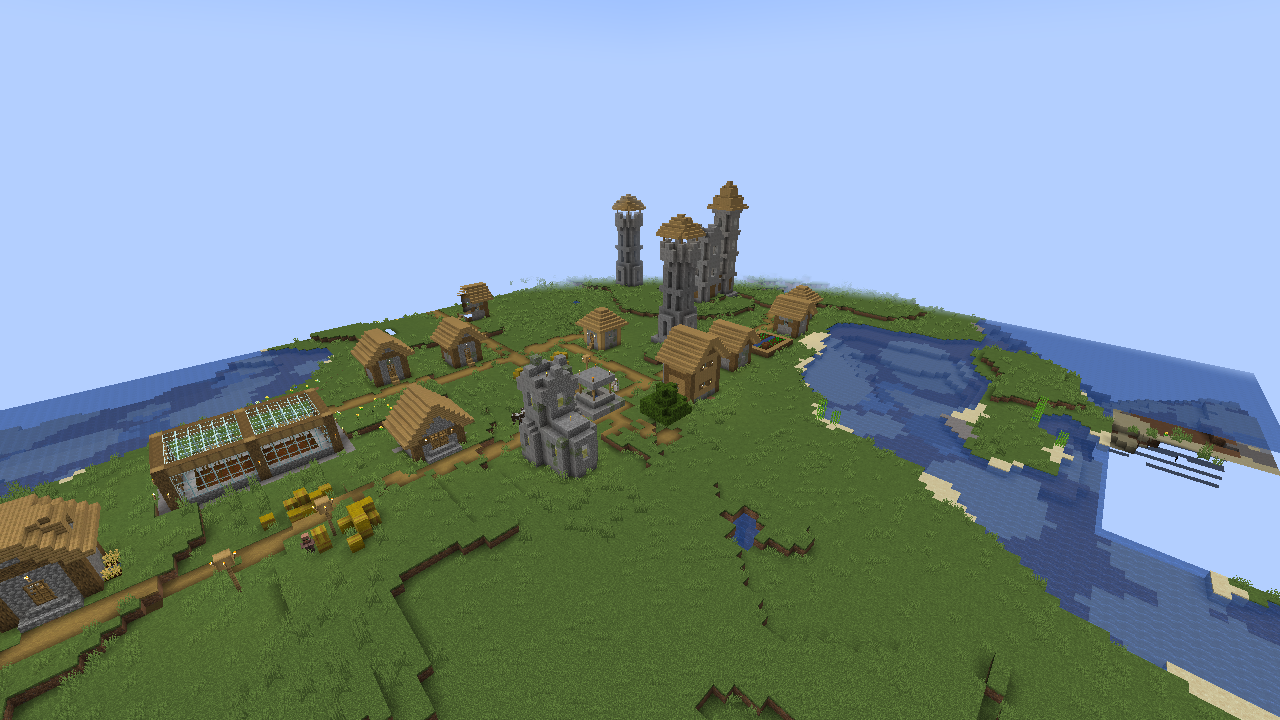
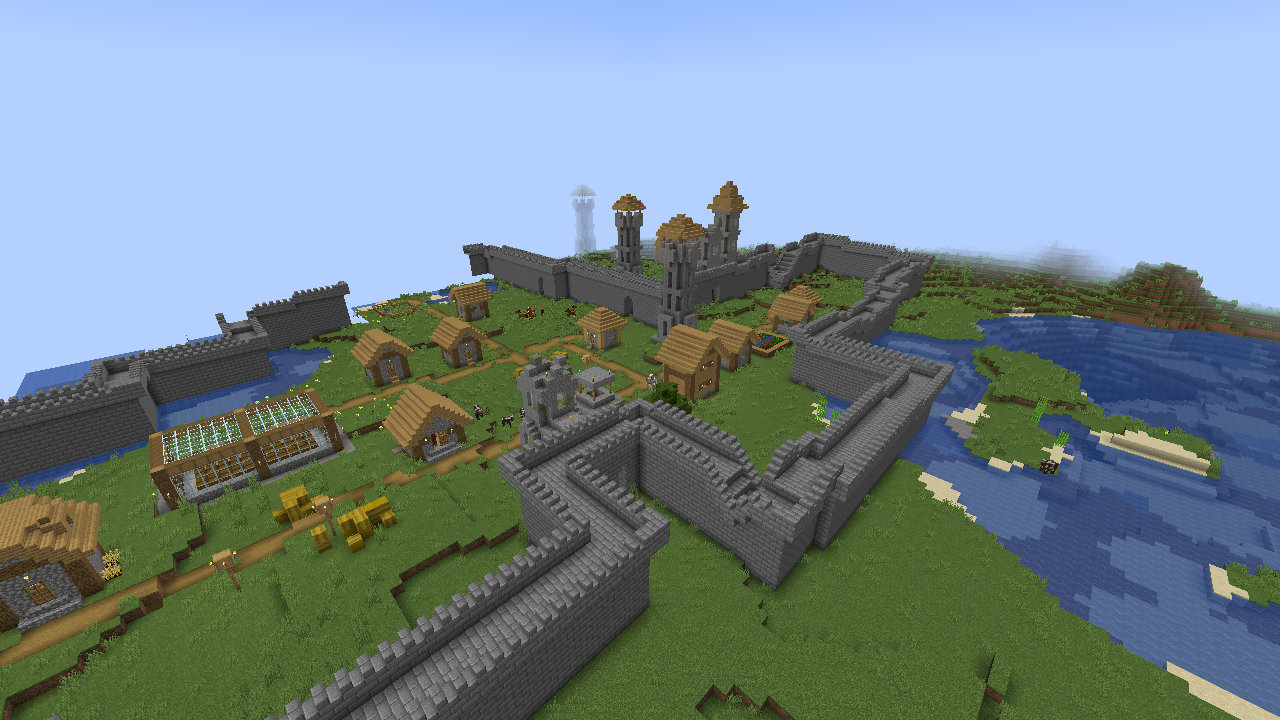
Witchery village walls: legacy tile entities created during generation, street pieces as village paths; Start.biome; README village image

diff --git a/src/main/java/org/kylepitcock/legacyconnector/v1_7_10/entity/VillageSelfTest.java b/src/main/java/org/kylepitcock/legacyconnector/v1_7_10/entity/VillageSelfTest.java
@@ -41,10 +41,41 @@ public final class VillageSelfTest {
                 for (int y = level.getMinBuildHeight(); y < 140; y++) {
                     var key = BuiltInRegistries.BLOCK.getKey(level.getBlockState(pos.set(x, y, z)).getBlock());
                     if (!key.getNamespace().equals("minecraft")) blocks.merge(key.getNamespace(), 1, Integer::sum);
+                    if (key.getPath().contains("wall")) blocks.merge(key.toString(), 1, Integer::sum);
+                    if (key.getPath().equals("wallgen")) {
+                        var be = level.getBlockEntity(pos);
+                        Object legacyTe = be instanceof org.kylepitcock.legacyconnector.v1_7_10.adapter.LegacyBlockEntity l ? l.legacy() : null;
+                        String info = "no legacy tile entity";
+                        if (legacyTe != null) {
+                            try {
+                                var f = legacyTe.getClass().getDeclaredField("bb");
+                                f.setAccessible(true);
+                                var ticksField = legacyTe.getClass().getSuperclass().getDeclaredField("ticks");
+                                ticksField.setAccessible(true);
+                                info = "bb " + f.get(legacyTe) + " ticks " + ticksField.get(legacyTe) + " canUpdate " + ((legacyconnector.v1_7_10.net.minecraft.tileentity.TileEntity) legacyTe).canUpdate();
+                            } catch (ReflectiveOperationException ex) {
+                                info = ex.toString();
+                            }
+                        }
+                        log.info("VILLAGE TEST: wall generator at {} {} {}: {}", x, y, z, info);
+                    }
                 }
             }
         }
         for (var entity : level.getAllEntities()) if (entity instanceof net.minecraft.world.entity.npc.Villager) villagers++;
         log.info("VILLAGE TEST: village near {} {}; blocks of mods in the 9x9 chunks around it: {}; villagers loaded: {}", found.getX(), found.getZ(), blocks, villagers);
+        final int[] ticks = {0};
+        final int fcx = cx, fcz = cz;
+        NeoForge.EVENT_BUS.addListener((net.neoforged.neoforge.event.tick.ServerTickEvent.Post e) -> {
+            if (++ticks[0] != 600) return;
+            int stone = 0, wallgen = 0;
+            BlockPos.MutableBlockPos p = new BlockPos.MutableBlockPos();
+            for (int x = (fcx - 5) << 4; x < (fcx + 6) << 4; x++) for (int z = (fcz - 5) << 4; z < (fcz + 6) << 4; z++) for (int y = 60; y < 110; y++) {
+                var key = BuiltInRegistries.BLOCK.getKey(level.getBlockState(p.set(x, y, z)).getBlock());
+                if (key.getPath().equals("wallgen")) wallgen++;
+                if (key.getPath().endsWith("_wall") || key.getPath().equals("stone_bricks") || key.getPath().equals("cobblestone")) stone++;
+            }
+            log.info("VILLAGE TEST after 600 ticks: wall generators left {}, cobblestone/stone brick/wall blocks {}", wallgen, stone);
+        });
     }
 }

diff --git a/src/main/java/org/kylepitcock/legacyconnector/v1_7_10/bridge/LegacyVillages.java b/src/main/java/org/kylepitcock/legacyconnector/v1_7_10/bridge/LegacyVillages.java
@@ -38,7 +38,7 @@ public final class LegacyVillages {
     }
 
     /** A piece that is already there (a modern village piece): occupies space, builds nothing. */
-    private static final class Occupied extends StructureComponent {
+    private static final class Occupied extends StructureVillagePieces.Village {
         Occupied(StructureBoundingBox box) {
             this.boundingBox = box;
         }
@@ -76,7 +76,7 @@ public final class LegacyVillages {
             var key = registry.getKey(start.getStructure());
             boolean desert = key != null && key.getPath().contains("desert");
             Random rand = new Random(seed ^ (origin.x * 341873128712L + origin.z * 132897987541L));
-            List<StructureComponent> planned = plan(start, box, rand, desert, handlers);
+            List<StructureComponent> planned = plan(start, box, rand, desert, world.getBiomeGenForCoords((box.minX() + box.maxX()) / 2, (box.minZ() + box.maxZ()) / 2), handlers);
             Random buildRand = new Random(seed ^ ((long) chunkX * 3418731287L + (long) chunkZ * 1328979875L));
             for (StructureComponent component : planned) {
                 if (!component.getBoundingBox().intersectsWith(chunkBox)) continue;
@@ -89,16 +89,20 @@ public final class LegacyVillages {
         }
     }
 
-    private static List<StructureComponent> plan(StructureStart start, BoundingBox box, Random rand, boolean desert,
+    private static List<StructureComponent> plan(StructureStart start, BoundingBox box, Random rand, boolean desert, legacyconnector.v1_7_10.net.minecraft.world.biome.BiomeGenBase biome,
             List<legacyconnector.v1_7_10.cpw.mods.fml.common.registry.VillagerRegistry.IVillageCreationHandler> handlers) {
         List<Object> pieces = new ArrayList<>();
         for (var piece : start.getPieces()) {
             BoundingBox b = piece.getBoundingBox();
-            pieces.add(new Occupied(new StructureBoundingBox(b.minX(), b.minY(), b.minZ(), b.maxX(), b.maxY(), b.maxZ())));
+            StructureBoundingBox box1710 = new StructureBoundingBox(b.minX(), b.minY(), b.minZ(), b.maxX(), b.maxY(), b.maxZ());
+            // The village paths are what legacy components follow (Witchery's walls run along them).
+            boolean street = piece instanceof net.minecraft.world.level.levelgen.structure.PoolElementStructurePiece pool && pool.getElement().toString().contains("street");
+            pieces.add(street ? new StructureVillagePieces.Path(null, 0, rand, box1710, 0) : new Occupied(box1710));
         }
         int existing = pieces.size();
         StructureVillagePieces.Start startPiece = new StructureVillagePieces.Start(null, 0, rand, box.minX(), box.minZ(), new ArrayList(), 0);
         startPiece.inDesert = desert;
+        startPiece.biome = biome;
         for (var handler : handlers) {
             try {
                 StructureVillagePieces.PieceWeight weight = handler.getVillagePieceWeight(rand, 0);

diff --git a/src/main/java/org/kylepitcock/legacyconnector/v1_7_10/adapter/LegacyBlockEntity.java b/src/main/java/org/kylepitcock/legacyconnector/v1_7_10/adapter/LegacyBlockEntity.java
@@ -34,15 +34,20 @@ public class LegacyBlockEntity extends BlockEntity {
 
     /** The legacy tile entity, created on first use (legacy createTileEntity may need the world). */
     public TileEntity legacy() {
+        return legacy(null);
+    }
+
+    /** As {@link #legacy()}; {@code fallback} is the world to create the tile entity in while this block entity has no level yet (world generation). */
+    public TileEntity legacy(World fallback) {
         if (legacy == null && !createFailed) {
             try {
                 if (pending != null) {
                     legacy = TileEntityBridge.createAndLoad(new NBTTagCompound(pending));
                     pending = null;
                 }
-                if (legacy == null && level != null) {
+                if (legacy == null && (level != null || fallback != null)) {
                     Block block = (Block) ((LegacyBlockAdapter) getBlockState().getBlock()).legacy();
-                    legacy = block.createTileEntity(World.mcc$wrap(level), getBlockState().getValue(LegacyBlockAdapter.META));
+                    legacy = block.createTileEntity(level != null ? World.mcc$wrap(level) : fallback, getBlockState().getValue(LegacyBlockAdapter.META));
                 }
             } catch (RuntimeException | LinkageError e) {
                 // A tile entity that cannot be created must not take the server down (this runs while chunks are sent

diff --git a/src/main/java/org/kylepitcock/legacyconnector/v1_7_10/bridge/TileEntityBridge.java b/src/main/java/org/kylepitcock/legacyconnector/v1_7_10/bridge/TileEntityBridge.java
@@ -93,7 +93,7 @@ public final class TileEntityBridge {
         var be = world.mcc$level().getBlockEntity(pos);
         if (be == null) return null;
         if (be instanceof LegacyBlockEntity l) {
-            TileEntity te = l.legacy();
+            TileEntity te = l.legacy(world);
             // A tile entity placed while a chunk is generated has no level yet: it lives in the world it was asked through.
             if (te != null && te.worldObj == null) {
                 te.worldObj = world;

diff --git a/src/main/java/legacyconnector/v1_7_10/net/minecraft/world/gen/structure/StructureVillagePieces.java b/src/main/java/legacyconnector/v1_7_10/net/minecraft/world/gen/structure/StructureVillagePieces.java
@@ -213,6 +213,8 @@ public class StructureVillagePieces {
     public static class Start extends Well {
         public WorldChunkManager worldChunkMngr;
         public boolean inDesert;
+        /** Forge: the biome the village is in. */
+        public legacyconnector.v1_7_10.net.minecraft.world.biome.BiomeGenBase biome;
         public int terrainType;
         public PieceWeight structVillagePieceWeight;
         public List structureVillageWeightedPieceList;
